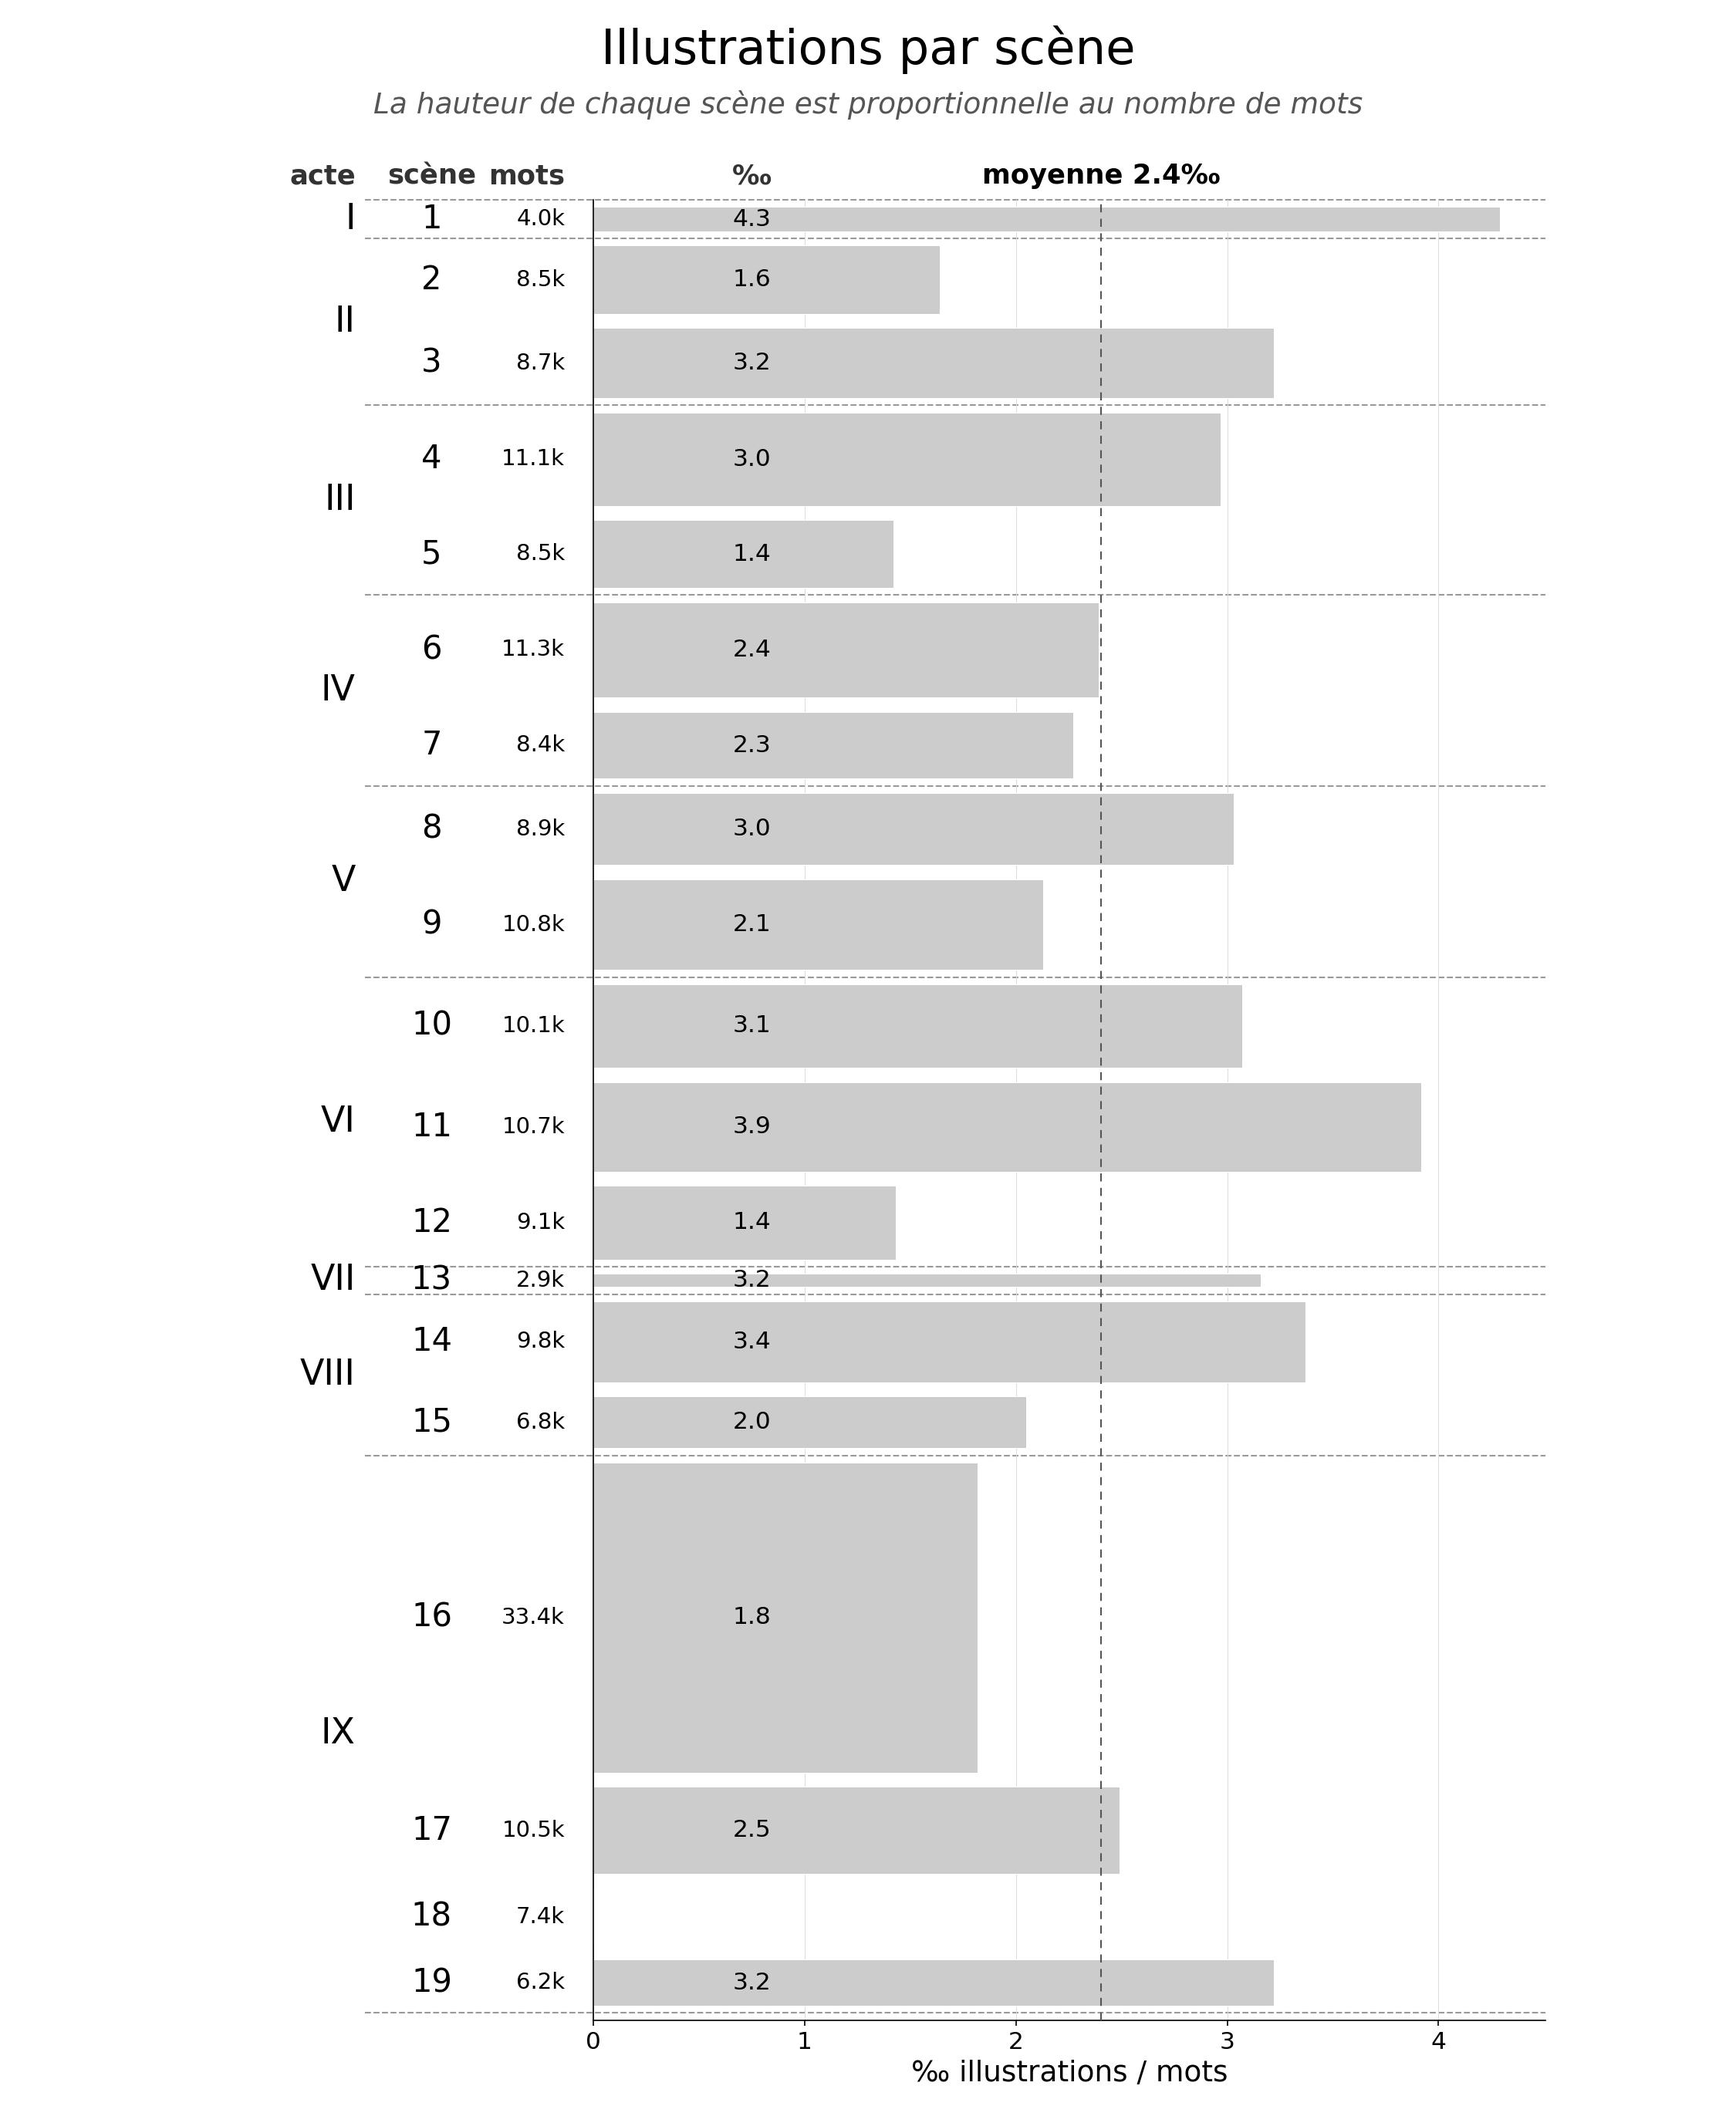
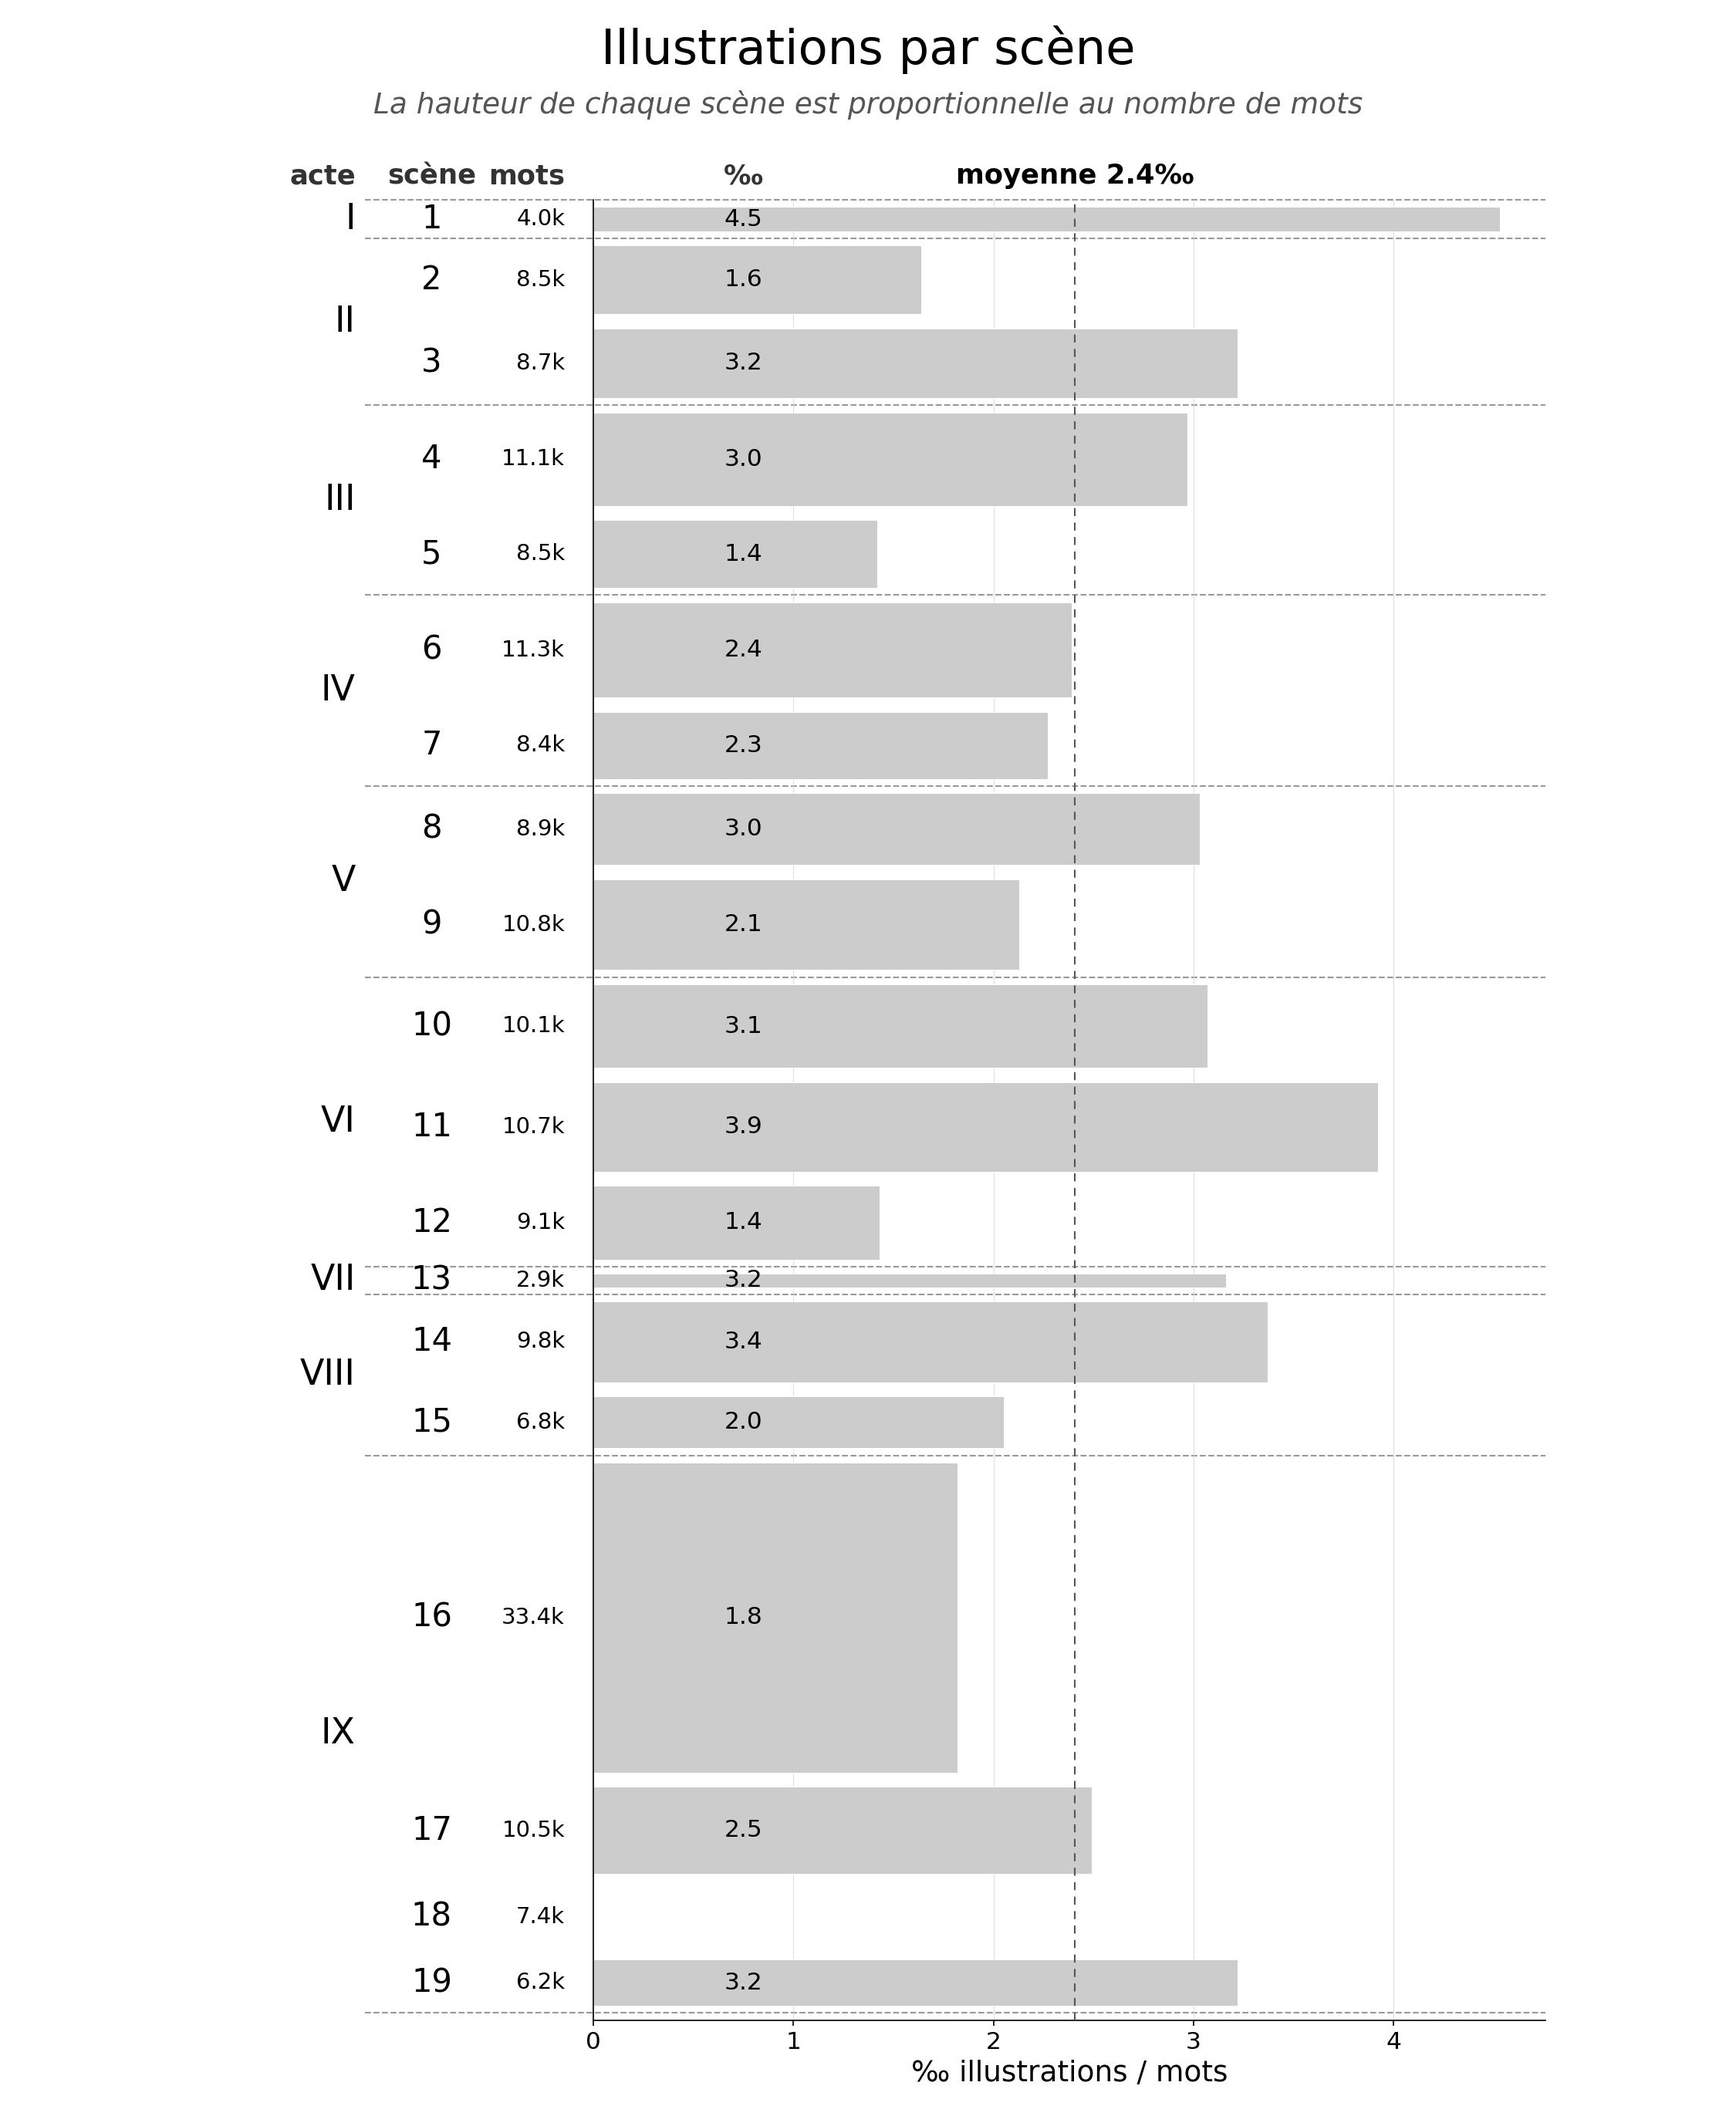
one more illus

diff --git a/stats.md b/stats.md
@@ -5,7 +5,7 @@ Mots = texte original uniquement (hors contenu des notes `\nf{}`).
 
 | Acte.Scène | Début | p. | pp. | Mots | % livre | % dial. | Notes | % mots | Illustrations | % mots |
 |----------:|:------|---:|----:|-----:|--------:|--------:|------:|-------:|--------------:|-------:|
-| I.1 | Une décharge d’un milliard de volts a… |   7 |  18 |   3 960 |   2.12% |   4.49% |    22 |  0.56% |            17 |  0.43% |
+| I.1 | Une décharge d’un milliard de volts a… |   7 |  18 |   3 971 |   2.12% |   4.48% |    22 |  0.55% |            18 |  0.45% |
 | II.2 | Ça a officiellement commencé le jour où… |  25 |  32 |   8 527 |   4.56% |  20.23% |    32 |  0.38% |            14 |  0.16% |
 | II.3 | Ce même jour, en fin d’après-midi, on… |  57 |  36 |   8 689 |   4.65% |   5.65% |    53 |  0.61% |            28 |  0.32% |
 | III.4 | Quelques jours plus tard, les journaux ont… |  93 |  44 |  11 095 |   5.93% |  28.71% |    78 |  0.70% |            33 |  0.30% |
@@ -24,9 +24,9 @@ Mots = texte original uniquement (hors contenu des notes `\nf{}`).
 | IX.17 | Une porte d’ascenseur venait de s’ouvrir, non… | 661 |  36 |  10 456 |   5.59% |   3.04% |    68 |  0.65% |            26 |  0.25% |
 | IX.18 | Comme beaucoup d’urgentistes souffrant de handicap visuel… | 697 |  26 |   7 373 |   3.94% |  48.11% |    10 |  0.14% |             — |      — |
 | IX.19 | Il est toujours extrêmement douloureux de mettre… | 723 | 234 |   6 214 |   3.32% |  25.43% |    23 |  0.37% |            20 |  0.32% |
-| **Total** | |  |  | **186 942** | **100%** | **29.40%** | **1081** | **0.58%** | **449** | **0.24%** |
+| **Total** | |  |  | **186 953** | **100%** | **29.40%** | **1081** | **0.58%** | **450** | **0.24%** |
 
-![Illustrations par scène (horizontal)](stats_illus_chart_h.jpg?v=aa1f50e9)
+![Illustrations par scène (horizontal)](stats_illus_chart_h.jpg?v=a1bba1d6)
 
 # Statistiques par acte (avant découpage)
 
@@ -35,7 +35,7 @@ Mots = texte original uniquement (hors contenu des notes `\nf{}`).
 
 | Acte | p. | pp. | Mots | % livre | Notes | % mots | Illustrations | % mots |
 |-----:|---:|----:|-----:|--------:|------:|-------:|--------------:|-------:|
-| I    |   3 |  16 |   3 960 |   2.12% |    22 |  0.56% |            17 |  0.43% |
+| I    |   3 |  16 |   3 971 |   2.12% |    22 |  0.55% |            18 |  0.45% |
 | II   |  19 |  56 |  17 216 |   9.21% |    85 |  0.49% |            42 |  0.24% |
 | III  |  75 |  68 |  19 562 |  10.46% |   110 |  0.56% |            45 |  0.23% |
 | IV   | 143 |  66 |  19 681 |  10.53% |    88 |  0.45% |            46 |  0.23% |
@@ -44,11 +44,11 @@ Mots = texte original uniquement (hors contenu des notes `\nf{}`).
 | VII  | 381 |  12 |   2 852 |   1.53% |    14 |  0.49% |             9 |  0.32% |
 | VIII | 393 |  54 |  16 616 |   8.89% |   111 |  0.67% |            47 |  0.28% |
 | IX   | 447 | 184 |  57 486 |  30.75% |   349 |  0.61% |           107 |  0.19% |
-| **Total** |  |  | **186 942** | **100%** | **1081** | **0.58%** | **449** | **0.24%** |
+| **Total** |  |  | **186 953** | **100%** | **1081** | **0.58%** | **450** | **0.24%** |
 
 ## Estimation illustrations restantes
 
-Cible : **1 illustration tous les 416 mots** (186 942 mots → **449** illustrations).  
-Actuellement **449** — il en manque **0** — **100.0 %** réalisé.
+Cible : **1 illustration tous les 415 mots** (186 953 mots → **450** illustrations).  
+Actuellement **450** — il en manque **0** — **100.0 %** réalisé.
 
-Sous-illustrées (< 0.7× la cible) : IX.18 (0/17.7)
+Sous-illustrées (< 0.7× la cible) : IX.18 (0/17.8)
